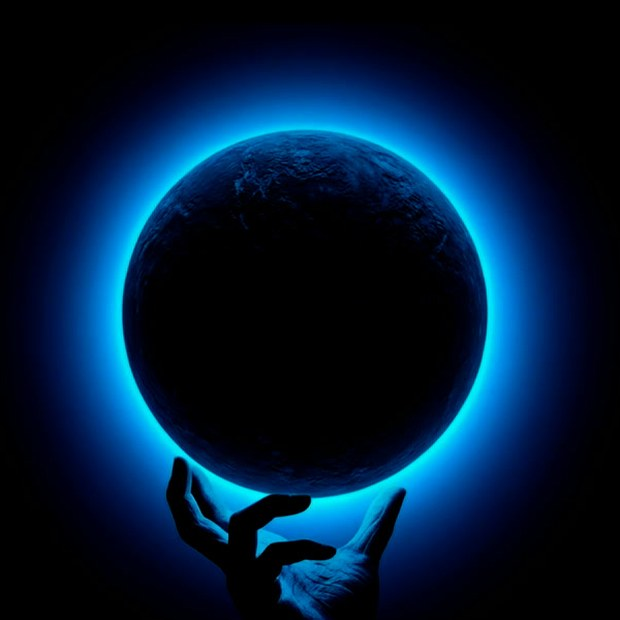
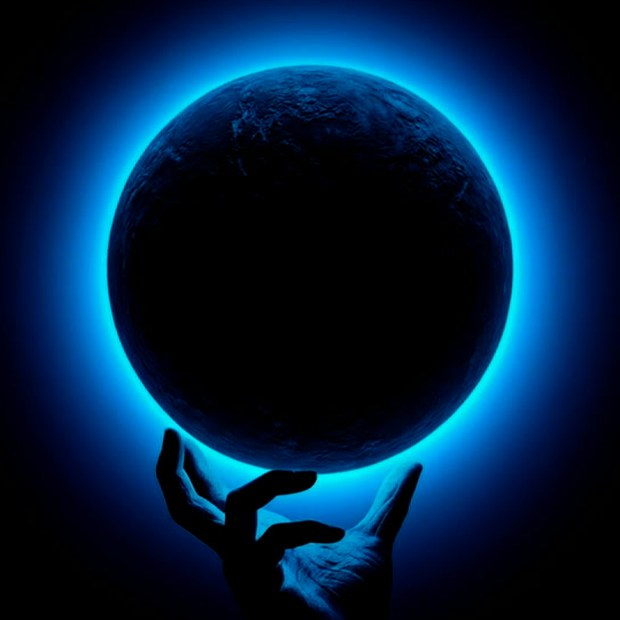
fix(social): kula mieści się w kadrze, mianownik nazw miejscowości
Dwie usterki z pierwszego opublikowanego posta.

Grafika: kula wychodziła poza prawą i dolną krawędź, dłoń była ucięta
w połowie. Nowy kadr orb.jpg obejmuje całą zawartość klatki (zmierzone:
x 413-868, y 59-576), a na karcie leży w całości z marginesem.

Zawijanie nagłówka po realnej szerokości w pikselach zamiast po liczbie
znaków — inaczej tekst wchodził w poświatę kuli. „Truszczyny-Dębień”
zajmuje dwa razy tyle miejsca co równie długie „Wery w Rybnie”, więc
limit znakowy albo marnował kolumnę, albo ją przekraczał.

Treść: model wyprowadzał mianownik z formy odmienionej i z „w Dębieniu”
robił „Dębienie”, co poszło w nagłówek na fanpage. DAILY_SUMMARY_PROMPT
dostał zamkniętą listę 22 miejscowości gminy — mianownik tylko z niej,
odmiana w zdaniu bez zmian.

diff --git a/backend/src/services/social_card.py b/backend/src/services/social_card.py
@@ -14,7 +14,6 @@ Wymiary 1200×630 to format karty linku FB/OG; działa też jako zwykłe zdjęci
 """
 import logging
 import re
-import textwrap
 import unicodedata
 from datetime import date
 from functools import lru_cache
@@ -44,10 +43,19 @@ DNI = ["PONIEDZIAŁEK", "WTOREK", "ŚRODA", "CZWARTEK", "PIĄTEK", "SOBOTA", "NI
 MIESIACE = ["stycznia", "lutego", "marca", "kwietnia", "maja", "czerwca",
             "lipca", "sierpnia", "września", "października", "listopada", "grudnia"]
 
+# Kula: rozmiar i lewy górny róg. Dobrane tak, by cały kadr (kula, poświata, dłoń)
+# zmieścił się z marginesem — prawa krawędź 1160/1200, dolna 545/630.
+ORB_SIZE = 460
+ORB_POS = (700, 85)
+
 VARIATION_SELECTORS = re.compile(r"[-\U000E0100-\U000E01EF]")
 
-# (stopień pisma, znaków w wierszu) — pierwszy układ mieszczący się w 4 wierszach wygrywa
-HEADLINE_STEPS = ((66, 26), (56, 31), (48, 37), (42, 43), (36, 50))
+# Kolumna tekstu kończy się przed kulą — stąd zawijanie po realnej szerokości w pikselach,
+# a nie po liczbie znaków: „Truszczyny-Dębień” zajmuje dwa razy tyle co „Wery w Rybnie”
+# przy tej samej długości w znakach, więc limit znakowy albo marnował miejsce, albo wpuszczał
+# tekst w poświatę.
+TEXT_MAX_WIDTH = ORB_POS[0] - MARGIN - 30
+HEADLINE_SIZES = (66, 58, 50, 44, 38)
 MAX_LINES = 4
 
 
@@ -84,16 +92,34 @@ def _label_for(headline: str, day: date) -> str:
     return f"{DNI[day.weekday()]} · {day.day} {MIESIACE[day.month - 1].upper()}"
 
 
+def _wrap_to_width(text: str, font: ImageFont.FreeTypeFont, max_width: int) -> List[str]:
+    """Zawiń tekst tak, by żaden wiersz nie przekroczył max_width w pikselach."""
+    lines: List[str] = []
+    current = ""
+    for word in text.split():
+        candidate = f"{current} {word}".strip()
+        if not current or font.getlength(candidate) <= max_width:
+            current = candidate
+        else:
+            lines.append(current)
+            current = word
+    if current:
+        lines.append(current)
+    return lines
+
+
 def _fit_headline(headline: str) -> Tuple[ImageFont.FreeTypeFont, List[str], int]:
-    for size, per_line in HEADLINE_STEPS:
-        lines = textwrap.wrap(headline, width=per_line)
+    for size in HEADLINE_SIZES:
+        font = _font(size, "ExtraBold")
+        lines = _wrap_to_width(headline, font, TEXT_MAX_WIDTH)
         if len(lines) <= MAX_LINES:
-            return _font(size, "ExtraBold"), lines, size
+            return font, lines, size
     # Nagłówek dłuższy niż jakikolwiek układ — przycinamy, wielokropek sygnalizuje ucięcie
-    size, per_line = HEADLINE_STEPS[-1]
-    lines = textwrap.wrap(headline, width=per_line)[:MAX_LINES]
+    size = HEADLINE_SIZES[-1]
+    font = _font(size, "ExtraBold")
+    lines = _wrap_to_width(headline, font, TEXT_MAX_WIDTH)[:MAX_LINES]
     lines[-1] = lines[-1].rstrip(" ,.;–—") + "…"
-    return _font(size, "ExtraBold"), lines, size
+    return font, lines, size
 
 
 def render_daily_card(headline: str, day: Optional[date] = None) -> bytes:
@@ -103,15 +129,17 @@ def render_daily_card(headline: str, day: Optional[date] = None) -> bytes:
 
     img = Image.new("RGB", (WIDTH, HEIGHT), BG)
 
-    # Kula z animacji hero — wtopiona w prawą krawędź, przygaszona, żeby nie zabierała
-    # uwagi nagłówkowi. Maska rozmyta, bo twarda krawędź zdradzałaby wklejony kadr.
+    # Kula z animacji hero — przygaszona, żeby nie zabierała uwagi nagłówkowi.
+    # Mieści się w kadrze W CAŁOŚCI, razem z dłonią: pierwsza wersja wychodziła poza
+    # prawą i dolną krawędź, więc dłoń była ucięta w połowie.
+    # Maska rozmyta, bo twarda krawędź zdradzałaby wklejony kadr.
     # Brak pliku nie może wywrócić karty: bez kuli jest skromniej, ale post wychodzi.
     try:
-        orb = Image.open(ORB_PATH).convert("RGB").resize((520, 520), Image.LANCZOS)
+        orb = Image.open(ORB_PATH).convert("RGB").resize((ORB_SIZE, ORB_SIZE), Image.LANCZOS)
         orb = Image.blend(Image.new("RGB", orb.size, BG), orb, 0.75)
         mask = Image.new("L", orb.size, 0)
-        ImageDraw.Draw(mask).ellipse((8, 8, 512, 512), fill=255)
-        img.paste(orb, (820, 210), mask.filter(ImageFilter.GaussianBlur(45)))
+        ImageDraw.Draw(mask).ellipse((6, 6, ORB_SIZE - 6, ORB_SIZE - 6), fill=255)
+        img.paste(orb, ORB_POS, mask.filter(ImageFilter.GaussianBlur(40)))
     except OSError as exc:
         logger.warning(f"[social_card] Pomijam kulę, nie wczytano {ORB_PATH}: {exc}")
 

diff --git a/backend/src/ai/prompts.py b/backend/src/ai/prompts.py
@@ -127,6 +127,20 @@ Wyjątek: [REGIONALNY] Awaria może trafić do summary TYLKO jeśli brak jakichk
 - Jeśli masz wątpliwości → pomiń lokalizację całkowicie
 - **Powiat działdowski ≠ gmina Działdowo ≠ miasto Działdowo** — to różne jednostki. Jeśli tekst mówi o "powiecie działdowskim" lub "drodze powiatowej", NIGDY nie pisz "gmina Działdowo" ani "miasto Działdowo"
 
+**PISOWNIA NAZW MIEJSCOWOŚCI — MIANOWNIK JEST ZAMKNIĘTĄ LISTĄ:**
+Miejscowości gminy Rybno w mianowniku brzmią DOKŁADNIE tak i tylko tak:
+Dębień, Grabacz, Gralewo Stacja, Gronowo, Groszki, Grądy, Hartowiec, Jeglia, Kopaniarze,
+Koszelewki, Koszelewy, Naguszewo, Nowa Wieś, Prusy, Rapaty, Rumian, Rybno, Szczupliny,
+Truszczyny, Tuczki, Wery, Żabiny.
+
+- NIGDY nie twórz mianownika spoza tej listy przez „odtworzenie” go z formy odmienionej.
+  Realny błąd na produkcji: z „w Dębieniu” model zrobił mianownik „Dębienie” i taki
+  trafił do nagłówka. Poprawnie: **Dębień**.
+- W nagłówku, gdzie nazwa stoi samodzielnie lub w zestawieniu z myślnikiem
+  („Truszczyny–Dębień”), używaj formy z listy.
+- Odmieniaj normalnie w zdaniu („w Dębieniu”, „do Dębienia”, „między Truszczynami
+  a Dębieniem”) — ograniczenie dotyczy wyłącznie mianownika.
+
 **WYMAGANY ARTYKUŁ NAGŁÓWKA:**
 Jeśli input zawiera sekcję "⚡ WYMAGANY ARTYKUŁ NAGŁÓWKA [ID:xxx]" — ZAWSZE użyj tego artykułu jako podstawy headline. Nie wybieraj innego artykułu do nagłówka. Podaj jego ID jako PIERWSZY w `cited_article_ids`.
 
